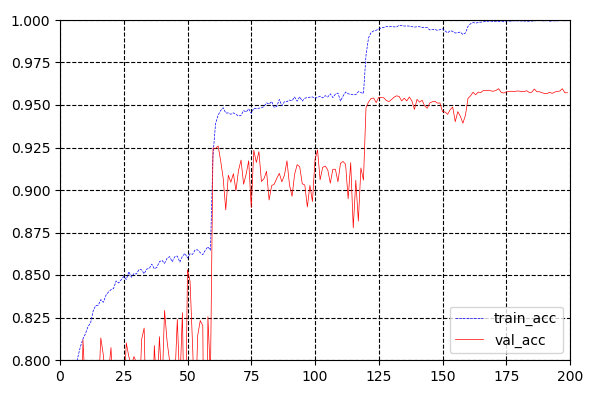
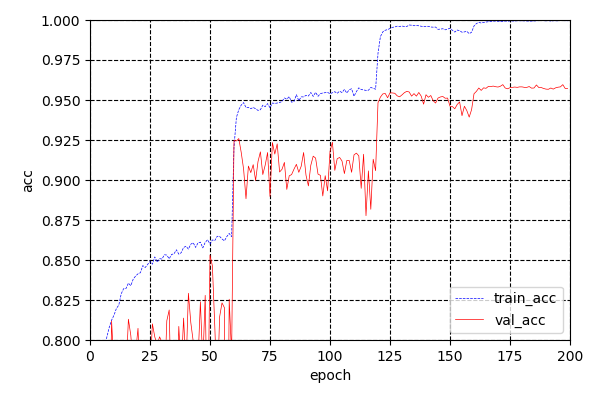
keras wide resnet

diff --git a/plot_history.py b/plot_history.py
@@ -16,9 +16,11 @@ def main():
     plt.plot(x, history['val_acc'], 'r-', label='val_acc', linewidth=.5)
     plt.legend(loc='lower right')
     plt.ylim([0.8, 1.0])
+    plt.ylabel('acc')
     plt.xlim([0, 200])
+    plt.xlabel('epoch')
     plt.grid(which='major', color='black', linestyle='--')
-    plt.subplots_adjust(left=.1, right=.95, bottom=.1, top=.95)
+    plt.subplots_adjust(left=.15, right=.95, bottom=.15, top=.95)
     path = f'figure/resnet_cifar10_history.png'
     if not os.path.exists(os.path.dirname(path)):
         os.makedirs(os.path.dirname(path))
